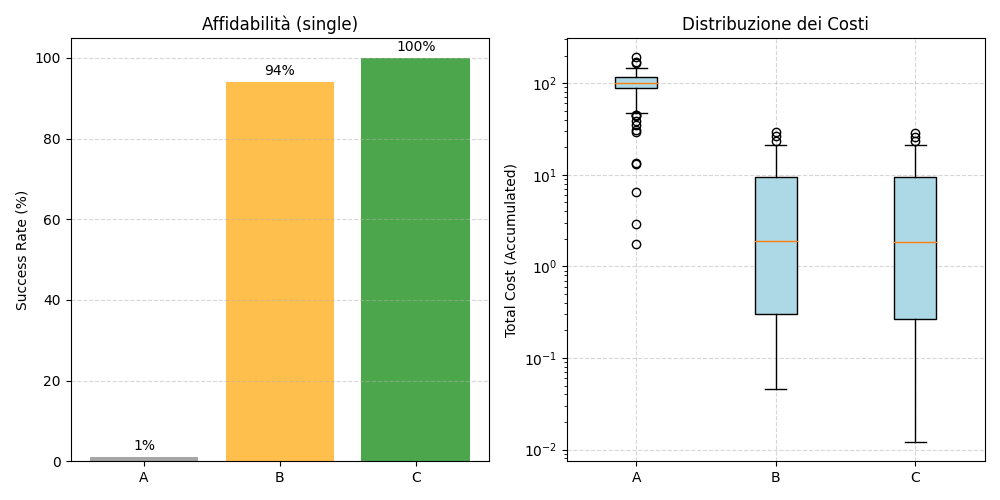
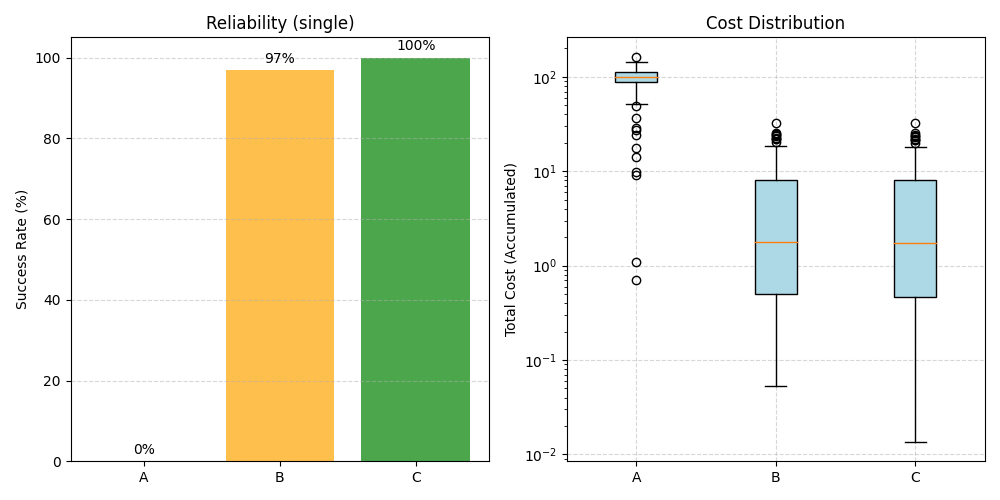
aggiornati plot

diff --git a/Final_project/mpc/comparison_mpc.py b/Final_project/mpc/comparison_mpc.py
@@ -1,21 +1,21 @@
 import numpy as np
 import matplotlib.pyplot as plt
-from optimal_control.casadi_adam.final_project_.mpc.mpc_funzione import run_mpc_simulation
+from final_project_.mpc.mpc_funzione import run_mpc_simulation
 from time import time as clock
 
 # --- IMPORTO IL GENERATORE RANDOM ---
 try:
-    from optimal_control.casadi_adam.final_project_.ocp.random_generator import generate_random_initial_states
-    from optimal_control.casadi_adam.final_project_.models.pendulum_model import PendulumModel
-    from optimal_control.casadi_adam.final_project_.models.doublependulum_model import DoublePendulumModel
+    from final_project_.ocp.random_generator import generate_random_initial_states
+    from final_project_.models.pendulum_model import PendulumModel
+    from final_project_.models.doublependulum_model import DoublePendulumModel
 except ImportError:
     print("ERRORE: random_generator.py o modelli non trovati.")
     exit()
 
 # --- CONFIGURAZIONE ---
 ROBOT_TYPE = "single"  # "single" o "double"
-N_TRIALS = 100          # Numero prove random
-M_SHORT = 5          # Orizzonte Corto (quello usato con successo)
+N_TRIALS = 100         # Numero prove random
+M_SHORT = 5         # Orizzonte Corto (quello usato con successo)
 #M_SHORT = 20
 N_LONG = 100           # Orizzonte Lungo
 SIM_STEPS = 300        # Durata simulazione (step) per dare tempo di arrivare
@@ -112,7 +112,7 @@ plt.subplot(1, 2, 1)
 rates = [succ_rates[k] for k in keys]
 bars = plt.bar(keys, rates, color=['gray', 'orange', 'green'], alpha=0.7)
 plt.ylabel('Success Rate (%)')
-plt.title(f'Affidabilità ({ROBOT_TYPE})')
+plt.title(f'Reliability ({ROBOT_TYPE})')
 plt.ylim(0, 105)
 plt.grid(axis='y', linestyle='--', alpha=0.5)
 # Aggiungo etichette sulle barre
@@ -126,7 +126,7 @@ data_to_plot = [costs['A'], costs['B'], costs['C']]
 plt.boxplot(data_to_plot, labels=keys, patch_artist=True, 
             boxprops=dict(facecolor="lightblue"))
 plt.ylabel('Total Cost (Accumulated)')
-plt.title('Distribuzione dei Costi')
+plt.title('Cost Distribution')
 plt.grid(linestyle='--', alpha=0.5)
 plt.yscale('log') # Log scale perché i costi di fallimento possono essere enormi
 
@@ -139,7 +139,7 @@ plt.figure(figsize=(6, 4))
 mse_data = [errors_mse['A'], errors_mse['B'], errors_mse['C']]
 plt.boxplot(mse_data, labels=keys, patch_artist=True,
             boxprops=dict(facecolor="lightgreen"))
-plt.title("Errore Quadratico Medio (Tracking Accuracy)")
+plt.title("Mean Square Error (Tracking Accuracy)")
 plt.ylabel("MSE (Log Scale)")
 plt.yscale('log')
 plt.grid(linestyle='--', alpha=0.5)
@@ -151,8 +151,8 @@ plt.figure(figsize=(6, 5))
 data_times = [times['A'], times['B'], times['C']]
 plt.boxplot(data_times, labels=keys, patch_artist=True, 
             boxprops=dict(facecolor="salmon"))
-plt.ylabel('Time per Simulation [s]')
-plt.title('Efficienza Computazionale')
+plt.ylabel('Simulation Time [s]')
+plt.title('Computational Efficiency')
 plt.grid(linestyle='--', alpha=0.5)
 plt.tight_layout()
 plt.show()

diff --git a/Final_project/plot/final_plots_comparison.py b/Final_project/plot/final_plots_comparison.py
@@ -1,18 +1,19 @@
 import numpy as np
 import matplotlib.pyplot as plt
-from optimal_control.casadi_adam.final_project_.mpc.mpc_funzione import run_mpc_simulation
+from final_project_.mpc.mpc_funzione import run_mpc_simulation
 
 # --- IMPORT MODELLI ---
 try:
-    from optimal_control.casadi_adam.final_project_.models.pendulum_model import PendulumModel
-    from optimal_control.casadi_adam.final_project_.models.doublependulum_model import DoublePendulumModel
+    from final_project_.models.pendulum_model import PendulumModel
+    from final_project_.models.doublependulum_model import DoublePendulumModel
 except ImportError:
     print("ERRORE: Modelli non trovati.")
     exit()
 
 # --- CONFIGURAZIONE ---
-ROBOT_TYPE = "double"  # "double" o "single"
-M_SHORT = 20           # Orizzonte Corto
+ROBOT_TYPE = "single"  # "double" o "single"
+#M_SHORT = 20           # Orizzonte Corto
+M_SHORT = 5 
 N_LONG = 100           # Orizzonte Lungo
 SIM_STEPS = 300        # Tempo simulazione
 DT = 0.01
@@ -69,7 +70,6 @@ for j in range(nq):
     ax.axhline(q_target[j], color='gray', linestyle='-.', label='Target')
     
     ax.set_ylabel(f'Pos q_{j+1} [rad]')
-    ax.set_title(f'Joint {j+1} Position')
     ax.grid(True)
     if j == 0: ax.legend(loc='lower right')
 
@@ -84,7 +84,7 @@ for j in range(nq):
     ax.grid(True)
 
 # --- PLOT COPPIE ---
-# u è più corto di x di 1, accorciamo time
+# u è più corto di x di 1, accorcio time
 t_u = time[:-1]
 for j in range(nq):
     ax = axs[2, j]
@@ -96,7 +96,7 @@ for j in range(nq):
     ax.set_xlabel('Time [s]')
     ax.grid(True)
 
-plt.suptitle(f"Confronto Traiettorie: Swing-Up ({ROBOT_TYPE})", fontsize=16)
+plt.suptitle(f"Trajectory Comparison: Swing-Up ({ROBOT_TYPE})", fontsize=16)
 plt.tight_layout()
 filename = f"trajectory_comparison_{ROBOT_TYPE}.png"
 plt.savefig(filename)

diff --git a/Final_project/neural_network/training_neural_network.py b/Final_project/neural_network/training_neural_network.py
@@ -5,10 +5,16 @@ import numpy as np
 import matplotlib.pyplot as plt
 import os
 import copy
-from optimal_control.casadi_adam.final_project_.neural_network.neural_network import NeuralNetwork
+import time
 
-DATASET_NAME = "/home/claudia/orc/optimal_control/casadi_adam/final_project_/dataset/dataset_pendulum.npz"        # Per il singolo
-#DATASET_NAME = "/home/claudia/orc/optimal_control/casadi_adam/final_project_/dataset/dataset_doublependulum.npz"    # Per il doppio
+try:
+    from final_project_.neural_network.neural_network import NeuralNetwork
+except ImportError:
+    print("ERRORE: file non trovati")
+    exit()
+
+DATASET_NAME = "/home/claudia/orc/final_project_/dataset/dataset_pendulum.npz"        # Per il singolo
+#DATASET_NAME = "/home/claudia/orc/final_project_/dataset/dataset_doublependulum.npz"    # Per il doppio
 
 
 # --- PARAMETRI ---
@@ -143,11 +149,19 @@ def main():
     net, optimizer, loss_func = create_network_and_optimizer(input_dim, LEARNING_RATE)
     
     # C. Lancia il Training
+    start_time = time.time()
     train_hist, val_hist, best_weights = train_network(
         net, optimizer, loss_func, 
         X_train, Y_train, X_test, Y_test, 
         EPOCHS, BATCH_SIZE
     )
+    end_time = time.time()
+    training_duration = end_time - start_time
+
+    print("-" * 30)
+    print(f"TRAINING COMPLETATO.")
+    print(f"Tempo impiegato: {training_duration:.2f} secondi ({training_duration/60:.2f} minuti)")
+    print("-" * 30)
 
     # Carico i pesi migliori nella rete prima di salvare/plottare
     net.load_state_dict(best_weights)

diff --git a/Final_project/mpc/mpc_funzione.py b/Final_project/mpc/mpc_funzione.py
@@ -6,9 +6,9 @@ import os
 import shutil
 
 # --- IMPORT MODELLI ---
-from optimal_control.casadi_adam.final_project_.models.pendulum_model import PendulumModel
-from optimal_control.casadi_adam.final_project_.models.doublependulum_model import DoublePendulumModel
-from optimal_control.casadi_adam.final_project_.neural_network.neural_network import NeuralNetwork
+from final_project_.models.pendulum_model import PendulumModel
+from final_project_.models.doublependulum_model import DoublePendulumModel
+from final_project_.neural_network.neural_network import NeuralNetwork
 
 def run_mpc_simulation(robot_type, horizon, use_network, x_init, sim_steps=100, dt=0.01):
     """
@@ -19,11 +19,11 @@ def run_mpc_simulation(robot_type, horizon, use_network, x_init, sim_steps=100, 
     if robot_type == "single":
         robot = PendulumModel()
         q_des = np.array([np.pi])
-        model_filename = "/home/claudia/orc/optimal_control/casadi_adam/final_project_/dataset/learned_value_pendulum.pth"
+        model_filename = "/home/claudia/orc/final_project_/dataset/learned_value_pendulum.pth"
     elif robot_type == "double":
         robot = DoublePendulumModel()
         q_des = np.array([np.pi, 0.0])
-        model_filename = "/home/claudia/orc/optimal_control/casadi_adam/final_project_/dataset/learned_value_double_pendulum.pth"
+        model_filename = "/home/claudia/orc/final_project_/dataset/learned_value_double_pendulum.pth"
     else:
         raise ValueError("robot_type deve essere 'single' o 'double'")
 

diff --git a/Final_project/mpc/test_mpc.py b/Final_project/mpc/test_mpc.py
@@ -7,15 +7,15 @@ import os
 import shutil
 
 # --- IMPORT FILES ---
-from optimal_control.casadi_adam.final_project_.models.pendulum_model import PendulumModel
-from optimal_control.casadi_adam.final_project_.models.doublependulum_model import DoublePendulumModel
-from optimal_control.casadi_adam.final_project_.neural_network.neural_network import NeuralNetwork
-from optimal_control.casadi_adam.final_project_.ocp.random_generator import generate_random_initial_states
-from optimal_control.casadi_adam.final_project_.plot.plot import animate_pendulum, animate_double_pendulum
+from final_project_.models.pendulum_model import PendulumModel
+from final_project_.models.doublependulum_model import DoublePendulumModel
+from final_project_.neural_network.neural_network import NeuralNetwork
+from final_project_.ocp.random_generator import generate_random_initial_states
+from final_project_.plot.plot import animate_pendulum, animate_double_pendulum
 
 # --- CONFIGURAZIONE ---
-#MODEL_FILE = "/home/claudia/orc/optimal_control/casadi_adam/final_project_/dataset/learned_value_pendulum.pth"       
-MODEL_FILE = "/home/claudia/orc/optimal_control/casadi_adam/final_project_/dataset/learned_value_double_pendulum.pth" 
+#MODEL_FILE = "/home/claudia/orc/final_project_/dataset/learned_value_pendulum.pth"       
+MODEL_FILE = "/home/claudia/orc/final_project_/dataset/learned_value_double_pendulum.pth" 
 
 DT = 0.01
 M = 20      #per pendolo semplice arriva bene anche a 10, per quello doppio già a 15 da più errore

diff --git a/Final_project/ocp/ocp.py b/Final_project/ocp/ocp.py
@@ -6,21 +6,20 @@ from concurrent.futures import ProcessPoolExecutor
 from pathlib import Path
 import os
 
-# --- IMPORTO MODELLI ---
-from optimal_control.casadi_adam.final_project_.models.pendulum_model import PendulumModel
-from optimal_control.casadi_adam.final_project_.models.doublependulum_model import DoublePendulumModel
-from optimal_control.casadi_adam.final_project_.prof.pendulum import Pendulum
+try:
+    from final_project_.ocp.random_generator import generate_random_initial_states
+    from final_project_.models.pendulum_model import PendulumModel
+    from final_project_.models.doublependulum_model import DoublePendulumModel
+    from final_project_.plot.plot import PLOTS
+except ImportError:
+    print("ERRORE: file non trovati.")
+    exit()
 
-# --- IMPORTO GENERATORE RANDOMICO PER STATI INIZIALI ---
-from optimal_control.casadi_adam.final_project_.ocp.random_generator import generate_random_initial_states
-
-# --- IMPORTO PLOT ---
-from optimal_control.casadi_adam.final_project_.plot.plot import PLOTS
 
 time_start = clock()
 print("Load robot model")
-#robot = PendulumModel()
-robot = DoublePendulumModel()
+robot = PendulumModel()
+#robot = DoublePendulumModel()
 
 nq = robot.nq
 nx = robot.nx

diff --git a/Final_project/mpc/mpc_diff_M.py b/Final_project/mpc/mpc_diff_M.py
@@ -4,11 +4,11 @@ import torch
 import os
 
 # --- IMPORTAZIONI FILE ---
-from optimal_control.casadi_adam.final_project_.mpc.mpc_funzione import run_mpc_simulation
-from optimal_control.casadi_adam.final_project_.models.pendulum_model import PendulumModel
-from optimal_control.casadi_adam.final_project_.models.doublependulum_model import DoublePendulumModel
-from optimal_control.casadi_adam.final_project_.ocp.random_generator import generate_random_initial_states
-from optimal_control.casadi_adam.final_project_.plot.plot import animate_pendulum, animate_double_pendulum
+from final_project_.mpc.mpc_funzione import run_mpc_simulation
+from final_project_.models.pendulum_model import PendulumModel
+from final_project_.models.doublependulum_model import DoublePendulumModel
+from final_project_.ocp.random_generator import generate_random_initial_states
+from final_project_.plot.plot import animate_pendulum, animate_double_pendulum
 
 # --- CONFIGURAZIONE ---
 # Robot "single" o "double"

diff --git a/Final_project/mpc/diff_M_statistic.py b/Final_project/mpc/diff_M_statistic.py
@@ -3,13 +3,13 @@ import matplotlib.pyplot as plt
 import time
 
 # --- IMPORTAZIONI DAI TUOI FILE ESISTENTI ---
-from optimal_control.casadi_adam.final_project_.mpc.mpc_funzione import run_mpc_simulation
-from optimal_control.casadi_adam.final_project_.models.pendulum_model import PendulumModel
-from optimal_control.casadi_adam.final_project_.models.doublependulum_model import DoublePendulumModel
-from optimal_control.casadi_adam.final_project_.ocp.random_generator import generate_random_initial_states
+from final_project_.mpc.mpc_funzione import run_mpc_simulation
+from final_project_.models.pendulum_model import PendulumModel
+from final_project_.models.doublependulum_model import DoublePendulumModel
+from final_project_.ocp.random_generator import generate_random_initial_states
 
 # robot da testare: "single" o "double"
-ROBOT_TYPE = "double" 
+ROBOT_TYPE = "single" 
 
 # Numero di prove casuali (più alto è, più la statistica è affidabile)
 N_TRIALS = 100
